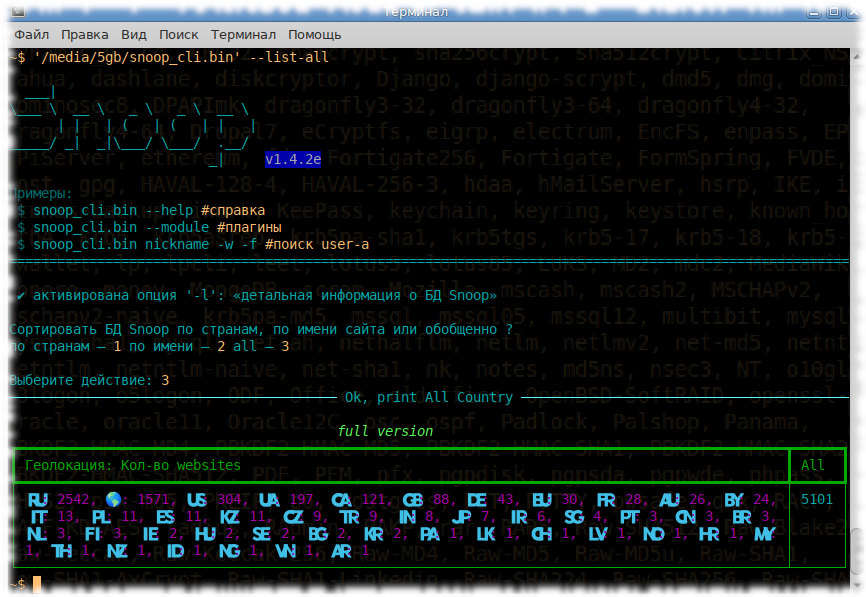
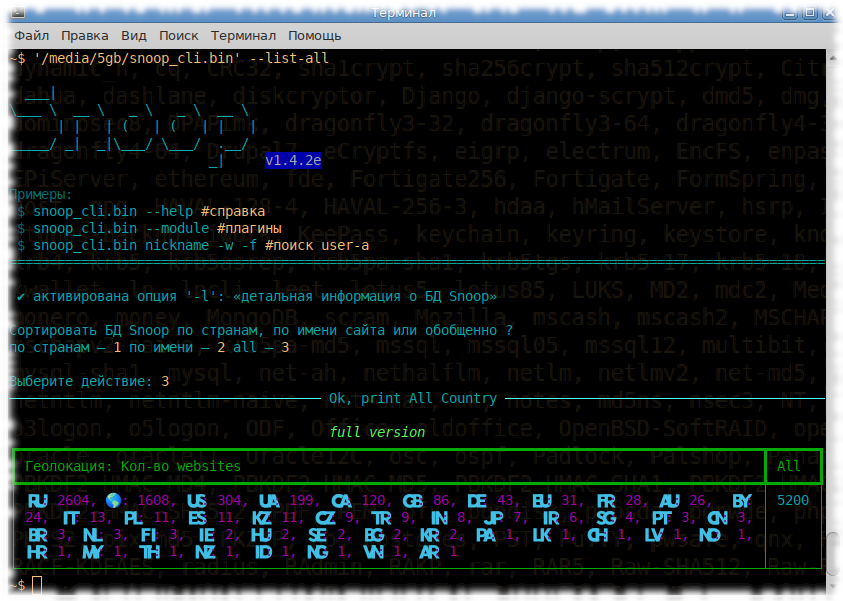
5.2K_websites

diff --git a/snoopbanner.py b/snoopbanner.py
@@ -75,7 +75,7 @@ Snoop в исполняемом виде (build-версия) предостав
 Всем студентам (независимо от учебного заведения или направления) ПО Snoop full version предоставляется с 50% скидкой.
 
 Snoop full version:
- * 5100+ Websites;
+ * 5200+ Websites;
  * поддержка локальной и онлайн database Snoop;
  * подключение к БД Snoop (online), которая расширяется/обновляется;
  * доступен автооптимизированный, быстрый и агрессивный режимы поиска;
@@ -150,7 +150,7 @@ function bay() {document.write('\
 <p><span style="font-size:18px"><span style="color:#007500">Snoop full version:</span></span></p>\
 \
 <ul>\
-	<li><span style="font-size:18px"><span style="color:#007500">&nbsp;5100+ Websites;</span></span></li>\
+	<li><span style="font-size:18px"><span style="color:#007500">&nbsp;5200+ Websites;</span></span></li>\
 	<li><span style="font-size:18px"><span style="color:#007500">&nbsp;поддержка локальной и онлайн database Snoop;</span></span></li>\
 	<li><span style="font-size:18px"><span style="color:#007500">&nbsp;подключение к БД Snoop (online), которая расширяется/обновляется;</span></span></li>\
 	<li><span style="font-size:18px"><span style="color:#007500">&nbsp;доступен автооптимизированный, быстрый и агрессивный режимы поиска;</span></span></li>\

diff --git a/README.md b/README.md
@@ -27,7 +27,7 @@ that is, it is available to the average user *(project creation date: February 1
 *(скачал софт, указал цель, получил результат).*  
 
 Сравнение индексаций БД-никнеймов подобных инструментов:  
-<a href="https://raw.githubusercontent.com/snooppr/snoop/master/websites.md" Target="_blank"><img src="https://img.shields.io/badge/Snoop-~5100+%20websites-success" width="50%" /></a>  
+<a href="https://raw.githubusercontent.com/snooppr/snoop/master/websites.md" Target="_blank"><img src="https://img.shields.io/badge/Snoop-~5200+%20websites-success" width="50%" /></a>  
 <img src="https://img.shields.io/badge/Whatsmyname-~600 websites-yellowgreen" width="25%" />  
 <img src="https://img.shields.io/badge/Sherlock-~400 websites-yellowgreen" width="20%" />  
 <img src="https://img.shields.io/badge/Spiderfoot-~350 websites-yellowgreen" width="20%" />  
@@ -49,7 +49,7 @@ Snoop for OS Windows and GNU/Linux
 
 **Snoop Local database**  
 <img src="https://raw.githubusercontent.com/snooppr/snoop/master/images/snoop_run.png" />  
-[Snoop full version database 5100+ websites ⚡⚡⚡](https://raw.githubusercontent.com/snooppr/snoop/master/websites.md "Database Snoop")  
+[Snoop full version database 5200+ websites ⚡⚡⚡](https://raw.githubusercontent.com/snooppr/snoop/master/websites.md "Database Snoop")  
 
 ## Релиз/Release
 <img src="https://raw.githubusercontent.com/snooppr/snoop/master/images/snoop box.png" width="35%" />  
@@ -155,7 +155,7 @@ search arguments:
                         Ник, содержащий в своем имени пробел, заключается в
                         кавычки.
   --web-base, -w        Подключиться для поиска 'nickname' к
-                        динамично-обновляемой web_БД (5100+ сайтов).
+                        динамично-обновляемой web_БД (5200+ сайтов).
   --site , -s <site_name> 
                         Указать имя сайта из БД '--list-all'. Поиск
                         'nickname' на одном указанном ресурсе, допустимо

diff --git a/README.es.md b/README.es.md
@@ -27,7 +27,7 @@ es decir, está al alcance del usuario medio *(14 de febrero de 2020)*.
 *(descargué el software, especifiqué el objetivo, recibí los resultados).*  
 
 Comparación de indexaciones de bases de datos tales herramientas:  
-<a href="https://raw.githubusercontent.com/snooppr/snoop/master/websites.md" Target="_blank"><img src="https://img.shields.io/badge/Snoop-~5100+%20sitios web-success" width="50%" /></a>  
+<a href="https://raw.githubusercontent.com/snooppr/snoop/master/websites.md" Target="_blank"><img src="https://img.shields.io/badge/Snoop-~5200+%20sitios web-success" width="50%" /></a>  
 <img src="https://img.shields.io/badge/Whatsmyname-~600 sitios web-yellowgreen" width="25%" />  
 <img src="https://img.shields.io/badge/Sherlock-~400 sitios web-yellowgreen" width="20%" />  
 <img src="https://img.shields.io/badge/Spiderfoot-~350 sitios web-yellowgreen" width="20%" />  
@@ -49,7 +49,7 @@ Snoop para SO Windows y GNU/Linux
 
 **Snoop Local database**  
 <img src="https://raw.githubusercontent.com/snooppr/snoop/master/images/EN_DB.png" />  
-[Base de datos de la versión completa de Snoop Más de 5100+ sitios web ⚡⚡⚡](https://raw.githubusercontent.com/snooppr/snoop/master/websites.md "Database Snoop")  
+[Base de datos de la versión completa de Snoop Más de 5200+ sitios web ⚡⚡⚡](https://raw.githubusercontent.com/snooppr/snoop/master/websites.md "Database Snoop")  
 
 ## Liberar
 <img src="https://raw.githubusercontent.com/snooppr/snoop/master/images/snoop box.png" width="35%" />  
@@ -161,7 +161,7 @@ argumentos de búsqueda:
                         de varios nombres al mismo tiempo. Un apodo que contiene
                         un espacio en su nombre se escribe entre comillas
   --web-base, -w        Conéctese a una web_DB dinámicamente actualizada
-                        (más de 5100+ sitios) para buscar 'apodo'.
+                        (más de 5200+ sitios) para buscar 'apodo'.
                         En la versión de demostración, la función está deshabilitada
   --site , -s <site_name> 
                         Especifique el nombre del sitio de la base de datos '--list-all'.

diff --git a/README.fr.md b/README.fr.md
@@ -27,7 +27,7 @@ c'est-à-dire qu'il est disponible pour l'utilisateur moyen *(date de création 
 *(téléchargé le logiciel, précisé la cible, reçu les résultats).*  
 
 Comparaison des indexations de bases de données tels outils:  
-<a href="https://raw.githubusercontent.com/snooppr/snoop/master/websites.md" Target="_blank"><img src="https://img.shields.io/badge/Snoop-~5100+%20sites Internet-success" width="50%" /></a>  
+<a href="https://raw.githubusercontent.com/snooppr/snoop/master/websites.md" Target="_blank"><img src="https://img.shields.io/badge/Snoop-~5200+%20sites Internet-success" width="50%" /></a>  
 <img src="https://img.shields.io/badge/Whatsmyname-~600 sites Internet-yellowgreen" width="25%" />  
 <img src="https://img.shields.io/badge/Sherlock-~400 sites Internet-yellowgreen" width="20%" />  
 <img src="https://img.shields.io/badge/Spiderfoot-~350 sites Internet-yellowgreen" width="20%" />  
@@ -49,7 +49,7 @@ Snoop pour OS Windows et GNU/Linux
 
 **Base de données locale Snoop**  
 <img src="https://raw.githubusercontent.com/snooppr/snoop/master/images/EN_DB.png" />  
-[Base de données de la version complète de Snoop 5100+ sites Web ⚡⚡⚡](https://raw.githubusercontent.com/snooppr/snoop/master/websites.md "Database Snoop")  
+[Base de données de la version complète de Snoop 5200+ sites Web ⚡⚡⚡](https://raw.githubusercontent.com/snooppr/snoop/master/websites.md "Database Snoop")  
 
 ## Libérer
 <img src="https://raw.githubusercontent.com/snooppr/snoop/master/images/snoop box.png" width="35%" />  
@@ -163,7 +163,7 @@ search arguments:
                         charge. Les surnoms contenant un espace dans leur nom sont
                         entre guillemets
   --web-base, -w        Connectez-vous pour rechercher 'surnom' dans la base de
-                        données web mise à jour (plus de 5100+ sites Web). 
+                        données web mise à jour (plus de 5200+ sites Web). 
                         Dans la version de démonstration, la fonction est désactivée
   --site , -s <site_name> 
                         Spécifiez le nom du site à partir de la base de données

diff --git a/README.de.md b/README.de.md
@@ -27,7 +27,7 @@ das heißt, es steht dem durchschnittlichen Benutzer zur Verfügung *(14. Februa
 *(Software heruntergeladen, Ziel angegeben, Ergebnisse erhalten).*  
 
 Vergleich der Indizierung von Datenbank-Nicknames ähnlicher Tools:  
-<a href="https://raw.githubusercontent.com/snooppr/snoop/master/websites.md" Target="_blank"><img src="https://img.shields.io/badge/Snoop-~5100+%20websites-success" width="50%" /></a>  
+<a href="https://raw.githubusercontent.com/snooppr/snoop/master/websites.md" Target="_blank"><img src="https://img.shields.io/badge/Snoop-~5200+%20websites-success" width="50%" /></a>  
 <img src="https://img.shields.io/badge/Whatsmyname-~600 websites-yellowgreen" width="25%" />  
 <img src="https://img.shields.io/badge/Sherlock-~400 websites-yellowgreen" width="20%" />  
 <img src="https://img.shields.io/badge/Spiderfoot-~350 websites-yellowgreen" width="20%" />  
@@ -49,7 +49,7 @@ Snoop für Betriebssysteme Windows und GNU/Linux
 
 **Snoop lokale Datenbank**  
 <img src="https://raw.githubusercontent.com/snooppr/snoop/master/images/EN_DB.png" />  
-[Snoop-Vollversionsdatenbank mit über 5100+ Websites ⚡⚡⚡](https://raw.githubusercontent.com/snooppr/snoop/master/websites.md "Datenbank-Snoop")  
+[Snoop-Vollversionsdatenbank mit über 5200+ Websites ⚡⚡⚡](https://raw.githubusercontent.com/snooppr/snoop/master/websites.md "Datenbank-Snoop")  
 
 ## Freigeben
 <img src="https://raw.githubusercontent.com/snooppr/snoop/master/images/snoop box.png" width="35%" />  
@@ -163,7 +163,7 @@ search arguments:
                         der ein Leerzeichen in seinem Namen enthält, wird in
                         Anführungszeichen eingeschlossen
   --web-base, -w        Stellen Sie eine Verbindung zu einer dynamisch aktualisierten
-                        web_DB (über 5100+ Websites) her, um nach 'Spitzname'
+                        web_DB (über 5200+ Websites) her, um nach 'Spitzname'
                         zu suchen. In der Demoversion ist die Funktion deaktiviert
   --site , -s <site_name> 
                         Geben Sie den Site-Namen aus der Datenbank '--list-all' an.

diff --git a/README.cn.md b/README.cn.md
@@ -27,7 +27,7 @@ Snoop 项目是在没有考虑 NSA 和他们的朋友的意见的情况下开发
 *（下载软件，指定目标，收到结果）。*  
 
 数据库索引等工具的比较：  
-<a href="https://raw.githubusercontent.com/snooppr/snoop/master/websites.md" Target="_blank"><img src="https://img.shields.io/badge/Snoop-~5100+%20网站-success" width="50%" /></a>  
+<a href="https://raw.githubusercontent.com/snooppr/snoop/master/websites.md" Target="_blank"><img src="https://img.shields.io/badge/Snoop-~5200+%20网站-success" width="50%" /></a>  
 <img src="https://img.shields.io/badge/Whatsmyname-~600 网站-yellowgreen" width="25%" />  
 <img src="https://img.shields.io/badge/Sherlock-~400 网站-yellowgreen" width="20%" />  
 <img src="https://img.shields.io/badge/Spiderfoot-~350 网站-yellowgreen" width="20%" />  
@@ -49,7 +49,7 @@ Snoop 项目是在没有考虑 NSA 和他们的朋友的意见的情况下开发
 
 **探听本地数据库**  
 <img src="https://raw.githubusercontent.com/snooppr/snoop/master/images/EN_DB.png" />  
-[Snoop 完整版数据库 5100+ 个网站 ⚡⚡⚡](https://raw.githubusercontent.com/snooppr/snoop/master/websites.md "数据库探听")  
+[Snoop 完整版数据库 5200+ 个网站 ⚡⚡⚡](https://raw.githubusercontent.com/snooppr/snoop/master/websites.md "数据库探听")  
 
 ## 发布
 <img src="https://raw.githubusercontent.com/snooppr/snoop/master/images/snoop box.png" width="35%" />  
@@ -154,7 +154,7 @@ plugins arguments:
 
 search arguments:
   nickname              被通缉用户的昵称。 支持同时搜索多个名称。 名称中包含空格的昵称用引号引起来
-  --web-base, -w        连接以在更新的 web_DB（5100+ 多个网站）中搜索'昵称'。 在演示版本中，
+  --web-base, -w        连接以在更新的 web_DB（5200+ 多个网站）中搜索'昵称'。 在演示版本中，
                         该功能被禁用
   --site , -s <site_name> 
                         从数据库'--list-all'中指定站点名称。 在一个指定的资源上搜索'昵称'，

diff --git a/README.en.md b/README.en.md
@@ -30,7 +30,7 @@ that is, it is available to the average user *(project creation date: February 1
 
 Comparison of similar tool databases:
 
-<a href="https://raw.githubusercontent.com/snooppr/snoop/master/websites.md" Target="_blank"><img src="https://img.shields.io/badge/Snoop-~5100+%20websites-success" width="50%" />  
+<a href="https://raw.githubusercontent.com/snooppr/snoop/master/websites.md" Target="_blank"><img src="https://img.shields.io/badge/Snoop-~5200+%20websites-success" width="50%" />  
 <img src="https://img.shields.io/badge/Whatsmyname-~600 websites-yellowgreen" width="25%" />  
 <img src="https://img.shields.io/badge/Sherlock-~400 websites-yellowgreen" width="20%" />  
 <img src="https://img.shields.io/badge/Spiderfoot-~350 websites-yellowgreen" width="20%" />  
@@ -52,7 +52,7 @@ Snoop for OS Windows and GNU/Linux
 
 **Snoop Local database**  
 <img src="https://raw.githubusercontent.com/snooppr/snoop/master/images/EN_DB.png" />  
-[Snoop Full version database 5100+ websites ⚡⚡⚡](https://raw.githubusercontent.com/snooppr/snoop/master/websites.md "Database Snoop")  
+[Snoop Full version database 5200+ websites ⚡⚡⚡](https://raw.githubusercontent.com/snooppr/snoop/master/websites.md "Database Snoop")  
 
 ## Release
 <img src="https://raw.githubusercontent.com/snooppr/snoop/master/images/snoop box.png" width="35%" />  
@@ -167,7 +167,7 @@ search arguments:
                         supported. Nicknames containing a space in their name
                         are enclosed in quotation marks
   --web-base, -w        Connect to search for 'nickname' to the updated web_DB
-                        (5100+ websites). In demo version the function is disabled
+                        (5200+ websites). In demo version the function is disabled
   --site , -s <site_name> 
                         Specify the name of the site from the database 
                         '--list-all'. Search for 'nickname' on one specified

diff --git a/README_android.md b/README_android.md
@@ -106,7 +106,7 @@ search arguments:
                         Ник, содержащий в своем имени пробел, заключается в
                         кавычки.
   --web-base, -w        Подключиться для поиска 'nickname' к
-                        динамично-обновляемой web_БД (5100+ сайтов).
+                        динамично-обновляемой web_БД (5200+ сайтов).
   --site , -s <site_name> 
                         Указать имя сайта из БД '--list-all'. Поиск
                         'nickname' на одном указанном ресурсе, допустимо

diff --git a/README_android.en.md b/README_android.en.md
@@ -112,7 +112,7 @@ search arguments:
   --verbose, -v         When searching for 'nickname', print detailed
                         verbalization
   --web-base, -w        Connect to search for 'nickname' to the updated web_DB
-                        (5100+ websites). In demo version the function is disabled
+                        (5200+ websites). In demo version the function is disabled
   --site , -s <site_name> 
                         Specify the name of the site from the database 
                         '--list-all'. Search for 'nickname' on one specified
